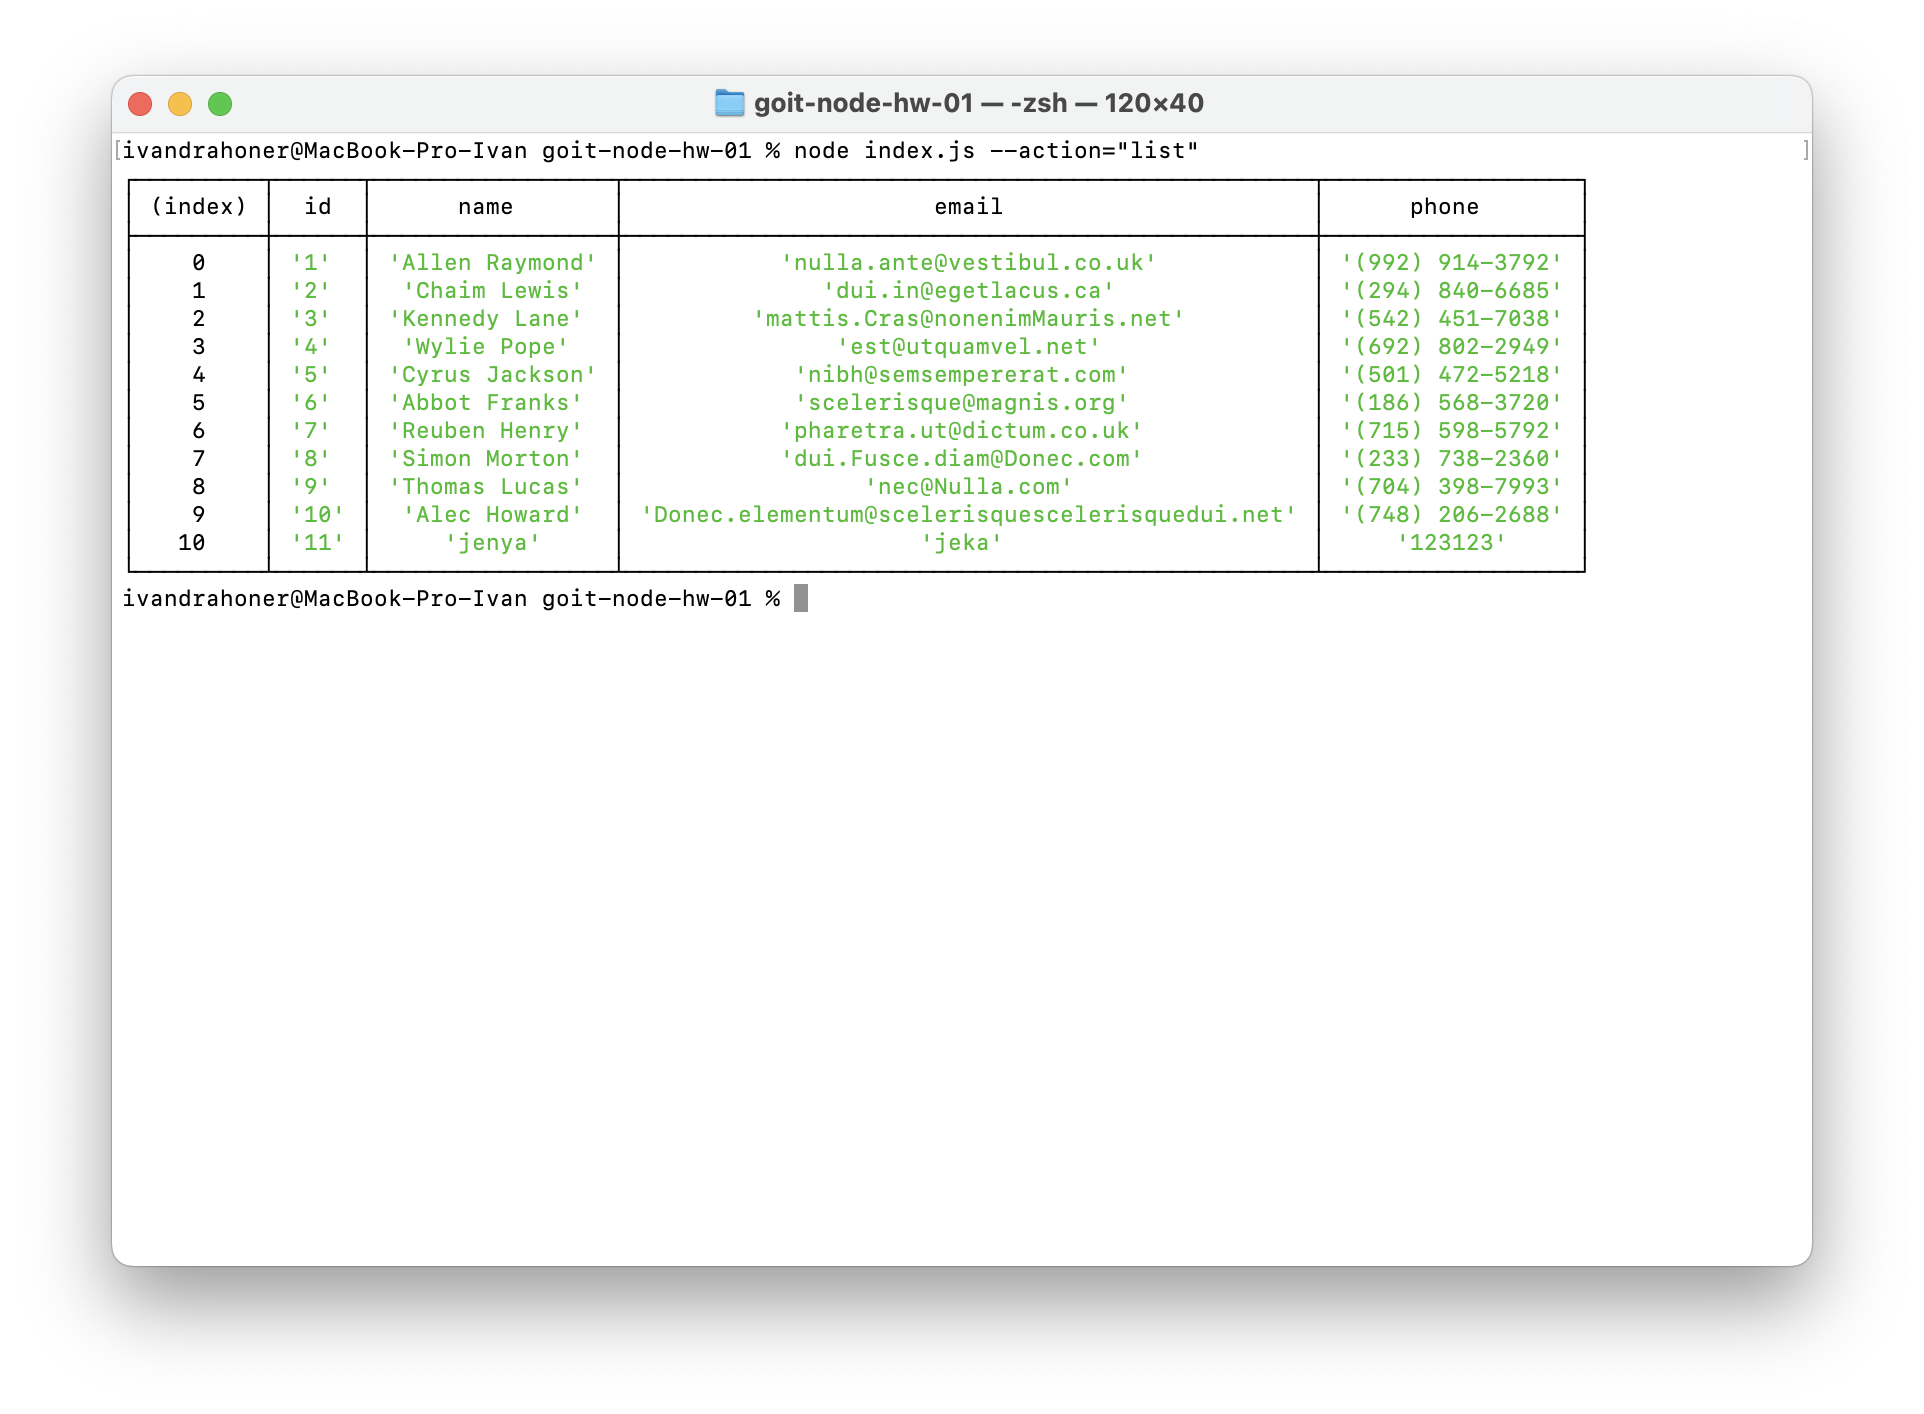
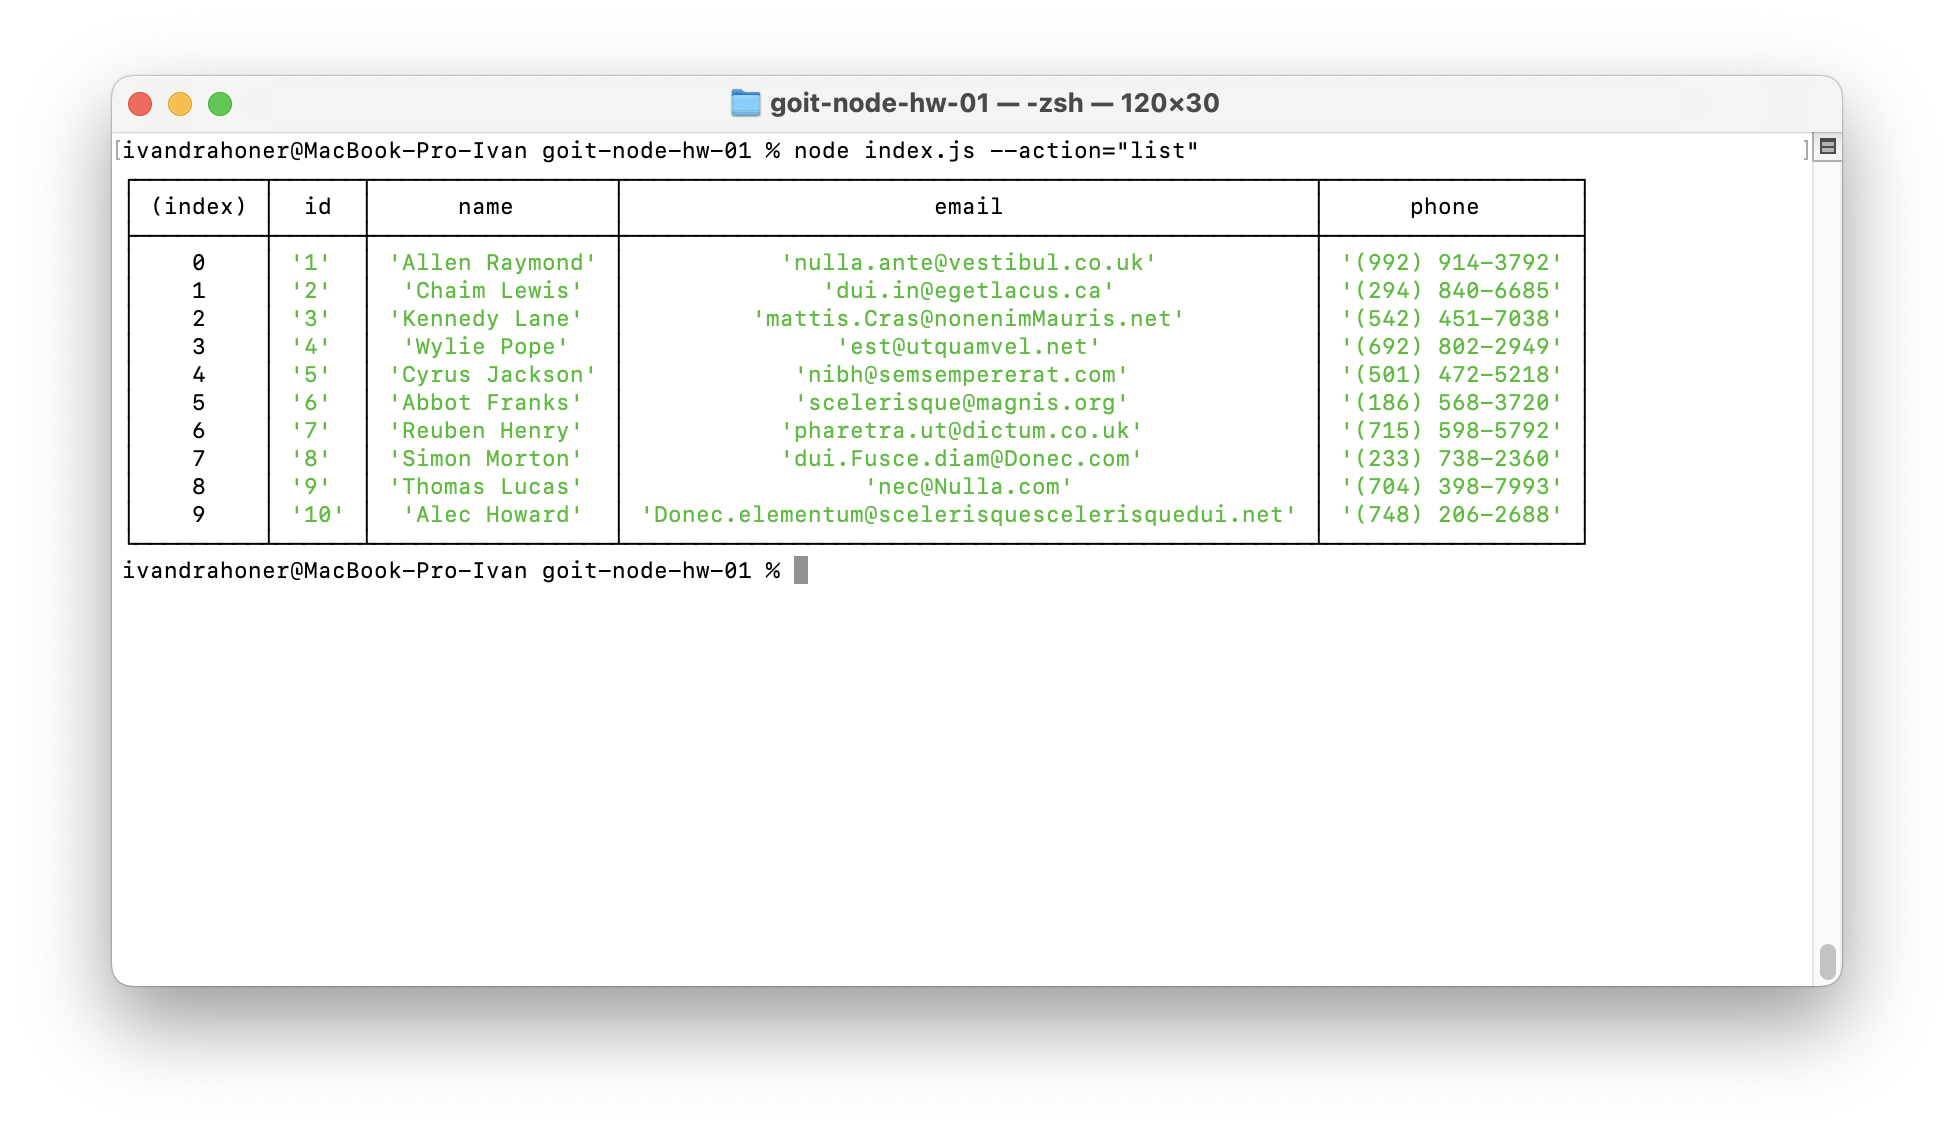
Add shortid and edited screenshots

diff --git a/contacts.js b/contacts.js
@@ -1,4 +1,5 @@
 const fs = require('fs').promises;
+const shortid = require('shortid');
 const path = require('path');
 
 const contactsPath = path.join(__dirname, './db/contacts.json');
@@ -52,18 +53,22 @@ async function removeContact(contactId) {
   }
 }
 
-const generateId = array => `${Number(array[array.length - 1].id) + 1}`;
-const normalizer = (...args) => args.map(element => element.toString().trim());
+const normalizeString = (...args) =>
+  args.map(element => element.toString().trim());
 
 async function addContact(inputName = '', inputEmail = '', inputPhone = '') {
   try {
-    const [name, email, phone] = normalizer(inputName, inputEmail, inputPhone);
+    const [name, email, phone] = normalizeString(
+      inputName,
+      inputEmail,
+      inputPhone
+    );
     if (!name || !email || !phone) {
       throw new Error('All fields are required!');
     }
     const contactsList = await getContacts();
     const newContacts = {
-      id: generateId(contactsList),
+      id: shortid.generate(),
       name,
       email,
       phone,

diff --git a/README.md b/README.md
@@ -1,4 +1,5 @@
 goit-node-hw-01 screenshots:
 
-![list](./assets/list.png); ![get](./assets/add.png); ![add](./assets/add.png);
-![remove](./assets/remove.png);
+Action: "List" ![list](./assets/list.png) Action: "Get" ![get](./assets/get.png)
+Action: "Add" ![add](./assets/add.png) Action: "Remove"
+![remove](./assets/remove.png)
